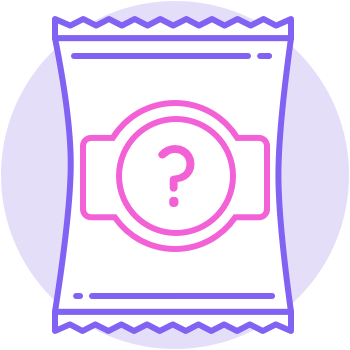
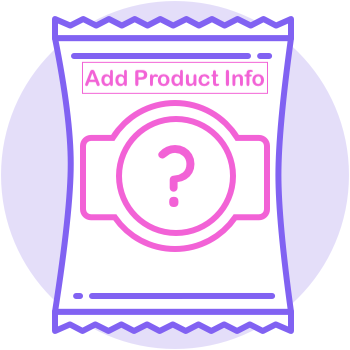
updating the images to add text for adding new images

Changed region(s): [[0.2286, 0.1714, 0.7714, 0.2857]]

diff --git a/src/app/product/product.page.html b/src/app/product/product.page.html
@@ -27,7 +27,7 @@
         <ion-col class="ion-text-center ion-justify-content-center">
           <div>
             <img *ngIf="(product && product.selected_images && product.selected_images.front && product.selected_images.front.display && product.selected_images.front.display.en && product.selected_images.front.display.en.length > 0) || product?.image_front_url" src="{{ product?.selected_images?.front?.display.en || product?.image_front_url }}">
-            <img (click)="updateFrontImage()" *ngIf="!((product && product.selected_images && product.selected_images.front && product.selected_images.front.display && product.selected_images.front.display.en && product.selected_images.front.display.en.length > 0) || product?.image_front_url)" src="assets/imgs/noProduct.png">
+            <img (click)="updateFrontImage()" *ngIf="!((product && product.selected_images && product.selected_images.front && product.selected_images.front.display && product.selected_images.front.display.en && product.selected_images.front.display.en.length > 0) || product?.image_front_url)" src="assets/imgs/addProductFrontImage.png">
           </div>
         </ion-col>
       </ion-row>
@@ -43,7 +43,7 @@
           <h2>Nutrition</h2>
           <div>
             <img *ngIf="(product && product.selected_images && product.selected_images.nutrition && product.selected_images.nutrition.display && product.selected_images.nutrition.display.en && product.selected_images.nutrition.display.en.length > 0) || product?.image_nutrition_url" src="{{ product?.selected_images?.nutrition?.display?.en || product?.image_nutrition_url }}">
-            <img (click)="updateNutritionImage()" *ngIf="!((product && product.selected_images && product.selected_images.nutrition && product.selected_images.nutrition.display && product.selected_images.nutrition.display.en && product.selected_images.nutrition.display.en.length > 0) || product?.image_nutrition_url)" src="assets/imgs/noProduct.png">
+            <img (click)="updateNutritionImage()" *ngIf="!((product && product.selected_images && product.selected_images.nutrition && product.selected_images.nutrition.display && product.selected_images.nutrition.display.en && product.selected_images.nutrition.display.en.length > 0) || product?.image_nutrition_url)" src="assets/imgs/addNutritionImage.png">
           </div>
         </ion-col>
       </ion-row>

diff --git a/src/app/product/product.service.ts b/src/app/product/product.service.ts
@@ -39,10 +39,6 @@ export class ProductService {
           code: product.code,
           product_name_en: product.product_name_en,
           ingredients_text_en: product.ingredients_text,
-          // image_url: product.image_url,
-          // image_ingredients_url: product.image_ingredients_url,
-          // image_front_url: product.image_front_url,
-          // image_nutrition_url: product.image_nutrition_url,
           brands: product.brands
         }
       };
